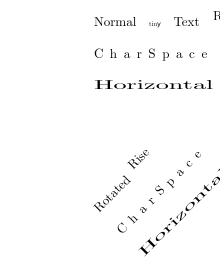
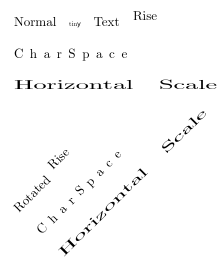
correct bbox

diff --git a/manifest.py b/manifest.py
@@ -1,7 +1,7 @@
 manifest = [
   {
     'file': 'basic_text',
-    'html2png_args': '--crop-x 100 --crop-y 150 --crop-w 220 --crop-h 260'
+    'html2png_args': '--crop-x 180 --crop-y 150 --crop-w 220 --crop-h 260'
   },
   {
     'file': 'geneve_1564',
